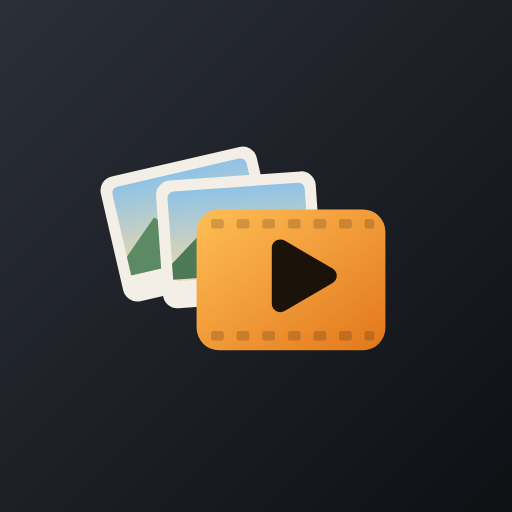
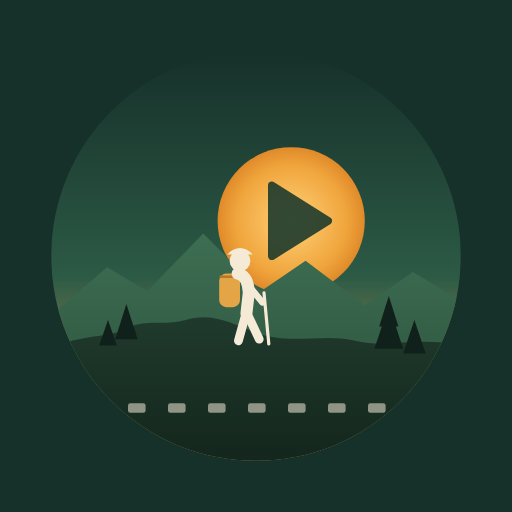
9.1: kişisel uygulama ikonu (Şefin Doğası — yürüyüşçü, güneşte oynat)
Claude-Session: https://claude.ai/code/session_01AVeMSXQ2ryvtrYxuY5ZCJU

diff --git a/index.html b/index.html
@@ -35,8 +35,8 @@
 <meta name="viewport" content="width=device-width,initial-scale=1,viewport-fit=cover">
 <meta name="theme-color" content="#111317">
 <link rel="manifest" href="manifest.webmanifest">
-<link rel="icon" href="icon-192.png">
-<link rel="apple-touch-icon" href="icon-192.png">
+<link rel="icon" href="icon-192.png?v=2">
+<link rel="apple-touch-icon" href="icon-192.png?v=2">
 <style>:root{color-scheme:light;box-sizing:border-box;padding-top:env(safe-area-inset-top,0px);padding-bottom:env(safe-area-inset-bottom,0px)}html{scroll-padding-top:env(safe-area-inset-top,0px)}body{margin:0;padding:0;font:14px -apple-system,BlinkMacSystemFont,sans-serif;background:#faf9f5;color:#141413}img{max-width:100%}[hidden]:not([hidden=until-found i]){display:none!important}.kisakart{border:1px solid color-mix(in srgb,#ff3b30 45%,transparent);background:linear-gradient(135deg,color-mix(in srgb,#ff3b30 10%,transparent),transparent 60%)}
 .kisakart h3::before{content:"▶ ";color:#ff3b30}
 .okursesi{border:1px solid color-mix(in srgb,#3fa36b 45%,transparent);background:linear-gradient(135deg,color-mix(in srgb,#3fa36b 10%,transparent),transparent 60%)}
@@ -44,7 +44,7 @@
 </style>
 </head>
 <body>
-<title>Kareden Videoya</title><script>try{document.documentElement.dataset.tema=localStorage.getItem("kv2.tema")==="gunduz"?"gunduz":"gece"}catch(e){}</script><meta name="surum" content="9.0" data-ad="Kareden Videoya" data-tarih="22.10.2026">
+<title>Kareden Videoya</title><script>try{document.documentElement.dataset.tema=localStorage.getItem("kv2.tema")==="gunduz"?"gunduz":"gece"}catch(e){}</script><meta name="surum" content="9.1" data-ad="Kareden Videoya" data-tarih="22.10.2026">
 <link rel="preconnect" href="https://fonts.googleapis.com">
 <link rel="preconnect" href="https://fonts.gstatic.com" crossorigin>
 <link rel="stylesheet" href="https://fonts.googleapis.com/css2?family=Anton&family=Barlow+Condensed:wght@600;700;800&family=Montserrat:ital,wght@0,600;0,800;0,900;1,900&family=Archivo:wght@400;500;600;700;800&family=Bebas+Neue&family=Caveat:wght@600;700&family=JetBrains+Mono:wght@500;600&family=Playfair+Display:ital,wght@0,700;1,600&display=swap">
@@ -546,7 +546,7 @@ html.basit #mininav button[data-tab]:not([data-tab="photo"]):not([data-tab="voic
 
 <div class="wrap">
   <header class="top">
-    <div class="brand"><span class="tally" aria-hidden="true"></span>Kareden Videoya<small class="surum-et" style="font:500 11px/1.2 system-ui,sans-serif;opacity:.65;margin-left:8px;letter-spacing:.02em;white-space:nowrap">sürüm 9.0 · 30.10.2026</small></div>
+    <div class="brand"><span class="tally" aria-hidden="true"></span>Kareden Videoya<small class="surum-et" style="font:500 11px/1.2 system-ui,sans-serif;opacity:.65;margin-left:8px;letter-spacing:.02em;white-space:nowrap">sürüm 9.1 · 30.10.2026</small></div>
     <div class="inline"><span class="meta mono" id="meta">16:9 · 1920×1080 · 30 fps</span><button class="topbtn temabtn" id="temaBtn" type="button" aria-label="Gündüz görünümüne geç" title="Gündüz / gece görünümü">☀</button><button class="topbtn" id="newProj" hidden aria-label="Yeni video" title="Yeni video"><svg viewBox="0 0 24 24" aria-hidden="true"><path d="M14 3H6a2 2 0 00-2 2v14a2 2 0 002 2h12a2 2 0 002-2V9z"/><path d="M14 3v6h6M12 12v6M9 15h6"/></svg><span>Yeni video</span></button><button class="topbtn" id="fsBtn" hidden aria-label="Tam ekran" title="Tam ekran">⛶</button></div>
   </header>
   <div id="support" class="banner" hidden></div>

diff --git a/sw.js b/sw.js
@@ -1,6 +1,6 @@
 /* Kareden Videoya çevrimdışı önbelleği. Yalnızca kendi önbelleğini siler (aynı adresteki diğer uygulamalara dokunmaz). */
-const P='kv-',V=P+'9.0';
-const SHELL=['./','index.html','manifest.webmanifest','icon.svg','icon-192.png','icon-512.png','icon-maskable.png'];
+const P='kv-',V=P+'9.1';
+const SHELL=['./','index.html','manifest.webmanifest','icon.svg?v=2','icon-192.png?v=2','icon-512.png?v=2','icon-maskable.png?v=2'];
 self.addEventListener('install',e=>{e.waitUntil(caches.open(V).then(c=>c.addAll(SHELL)).then(()=>self.skipWaiting()))});
 self.addEventListener('activate',e=>{e.waitUntil(caches.keys().then(ks=>Promise.all(ks.filter(k=>k.indexOf(P)===0&&k!==V).map(k=>caches.delete(k)))).then(()=>self.clients.claim()))});
 self.addEventListener('fetch',e=>{
